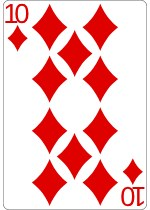
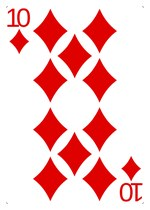
Scores: single clean face-up cards; drop chess pieces and colour cards
Re-crop the card art inside its own outline so it doesn't read as a card
on a card.

Claude-Session: https://claude.ai/code/session_01GhPby2oMrXUQTSRX7t2DQA

diff --git a/scores/index.html b/scores/index.html
@@ -132,13 +132,6 @@ body{background:transparent}
 #table{position:fixed;inset:0;z-index:-1;overflow:hidden;pointer-events:none;background:var(--wood)}
 .pcard{position:absolute;width:75px;height:105px;border-radius:7px;overflow:hidden;background:#fff;box-shadow:0 0 0 .5px rgba(0,0,0,.25),2px 6px 10px rgba(20,8,2,.45)}
 .pcard img{display:block;width:100%;height:100%;object-fit:cover}
-.ccard{position:absolute;width:75px;height:105px;border-radius:8px;background:#fff;padding:4px;box-shadow:0 0 0 .5px rgba(0,0,0,.25),2px 6px 10px rgba(20,8,2,.45);font-family:-apple-system,BlinkMacSystemFont,"Helvetica Neue",Arial,sans-serif;font-weight:900}
-.ccard .f{display:block;position:relative;width:100%;height:100%;border-radius:5px;background:var(--c);overflow:hidden}
-.ccard .f::before{content:"";position:absolute;left:50%;top:50%;width:44px;height:44px;margin:-22px 0 0 -22px;border-radius:50%;background:#fff;box-shadow:inset 0 0 0 3px rgba(0,0,0,.08)}
-.ccard .n{position:absolute;inset:0;display:grid;place-items:center;font-size:30px;color:var(--c);-webkit-text-stroke:1px rgba(0,0,0,.25)}
-.ccard .k{position:absolute;font-size:13px;color:#fff;-webkit-text-stroke:.5px rgba(0,0,0,.35)}
-.ccard .k.t{left:5px;top:3px}.ccard .k.b{right:5px;bottom:3px;transform:rotate(180deg)}
-.piece{position:absolute;display:block;filter:drop-shadow(3px 6px 5px rgba(20,8,2,.5))}
 .pcard.down{background:#fff}
 .pcard.down::before{content:"";position:absolute;inset:5px;border-radius:4px;
   background:radial-gradient(circle at 50% 50%,rgba(255,255,255,.28) 0 7px,transparent 7.5px),
@@ -551,7 +544,7 @@ scatterMarbles();
 function scatterMarbles() {
   const table = document.getElementById('table'), W = innerWidth, H = innerHeight;
   const sheet = document.querySelector('.sheet'), r = sheet ? sheet.getBoundingClientRect() : { left: W, right: 0, top: H, bottom: 0 };
-  table.querySelectorAll('.marble,.pcard,.ccard,.piece').forEach(m => m.remove());
+  table.querySelectorAll('.marble,.pcard').forEach(m => m.remove());
   const placed = [], below = document.querySelector('.below'), b2 = below ? below.getBoundingClientRect() : null;
   const hits = (rc, cx, cy, pad) => rc && cx > rc.left - pad && cx < rc.right + pad && cy > rc.top - pad && cy < rc.bottom + pad;
   const spot = (size, clear) => {
@@ -569,7 +562,7 @@ function scatterMarbles() {
   const OTHER = ['ace_of_spades', 'ace_of_hearts', '10_of_diamonds', '7_of_clubs', '5_of_hearts', '9_of_spades'];
   const pick = arr => arr.splice(Math.floor(Math.random() * arr.length), 1)[0];
   const ups = [pick(COURT), pick(Math.random() < .5 ? COURT : OTHER), pick(OTHER)];
-  const kinds = ['up', 'down', 'up'].slice(0, 2 + Math.floor(Math.random() * 2));
+  const kinds = ['up', 'down', 'up', 'down'].slice(0, 3 + Math.floor(Math.random() * 2));
   kinds.forEach(kind => {
     const p = spot(105, true); if (!p) return;
     const c = document.createElement('span'), rot = (Math.random() * 70 - 35).toFixed(1);
@@ -578,32 +571,10 @@ function scatterMarbles() {
     c.style.cssText = `left:${((p.cx - 37.5) / W * 100).toFixed(2)}%;top:${((p.cy - 52.5) / H * 100).toFixed(2)}%;transform:rotate(${rot}deg)`;
     table.appendChild(c);
   });
-  // a couple of colour-match cards (bright, numbered)
-  const CC = ['#d7262e', '#f2b80f', '#2a9a48', '#1e6fd0'];
-  for (let i = 0, n = 1 + (Math.random() < .6 ? 1 : 0); i < n; i++) {
-    const p = spot(105, true); if (!p) break;
-    const c = document.createElement('span'), num = Math.floor(Math.random() * 10), rot = (Math.random() * 80 - 40).toFixed(1);
-    c.className = 'ccard'; c.style.setProperty('--c', CC[Math.floor(Math.random() * CC.length)]);
-    c.innerHTML = `<span class="f"><span class="k t">${num}</span><span class="n">${num}</span><span class="k b">${num}</span></span>`;
-    c.style.left = ((p.cx - 37.5) / W * 100).toFixed(2) + '%'; c.style.top = ((p.cy - 52.5) / H * 100).toFixed(2) + '%';
-    c.style.transform = `rotate(${rot}deg)`;
-    table.appendChild(c);
-  }
-  // a few chess pieces, standing
-  const PIECES = { king: 76, queen: 70, rook: 54, bishop: 62, knight: 60, pawn: 48 };
-  const names = Object.keys(PIECES);
-  for (let i = 0, n = 2; i < n; i++) {
-    const kind = i === 0 ? 'knight' : names[Math.floor(Math.random() * names.length)], h = PIECES[kind];
-    const p = spot(h, true); if (!p) break;
-    const img = document.createElement('img'), col = Math.random() < .5 ? 'white' : 'black';
-    img.className = 'piece'; img.alt = ''; img.src = `pieces/${col}_${kind}.png`;
-    img.style.height = h + 'px'; img.style.left = ((p.cx - h * .35) / W * 100).toFixed(2) + '%'; img.style.top = ((p.cy - h / 2) / H * 100).toFixed(2) + '%';
-    table.appendChild(img);
-  }
   // marbles on top
   const COLOURS = [['#ff6b6b', '#d62f3a', '#7c0f16'], ['#6ea8ff', '#2f6fe0', '#123c8c'], ['#ffe27a', '#f2c21b', '#a87c00'],
     ['#7fe0a0', '#2fa35a', '#0f5a2c'], ['#ffffff', '#e9e9e9', '#a9a9a9'], ['#6a6a6a', '#262626', '#050505']];
-  const count = 4 + Math.floor(Math.random() * 3);
+  const count = 5 + Math.floor(Math.random() * 3);
   for (let i = 0; i < count; i++) {
     const p = spot(30); if (!p) continue;
     const c = COLOURS[i < COLOURS.length ? i : Math.floor(Math.random() * COLOURS.length)], m = document.createElement('span');

diff --git a/CLAUDE.md b/CLAUDE.md
@@ -51,7 +51,7 @@ The Kildow family's home-screen web app (Ash, Ben, Stella, Evie). This repo also
 ## Scores (`scores/`, for scores.jermins.com)
 - One page, `scores/index.html` (own copy of `pocketbase.umd.js`). Keeping score needs no login: the current game lives on the device in `localStorage['scores-game-v1']` (name, players, rounds, pending row, low/high, target, over, savedId, unsaved).
 - **Past games are shared with the household:** signed in with the Home Board login (☰ → Sign in, or from the clock button), a game that ends (target reached or End game) is saved to `score_games` (migration 1792500000; household set by the main.pb.js hook). Changing a score after the end updates the same row; offline saves retry later. The clock button lists past games; open one for the totals and full sheet, Play again (same name, players and rules), and Delete (editors). No stats, by Ben's choice.
-- Hearts' sheet and Home Board look, accent amber `#c98a3e`, sitting on a solid rich brown table (`--wood:#6b3d22`, same in light and dark; wood-grain images were tried and dropped by Ben) with 2–3 playing cards (75×105px, so a 30px marble is about 1" against a 2.5×3.5" card) tossed at angles, always fully in view (never under the sheet or the hint/buttons): face-up cards are real card art from Byron Knoll's public-domain Vector Playing Cards (via hayeah/playing-cards-assets), rendered to `scores/cards/*.jpg` (12 cards, at least one court card shown each time); face-down cards are a CSS red back. Also 1–2 generic colour-match cards (CSS: red/yellow/green/blue, number in a white circle; not UNO's design or logo, which are Mattel's), 2 standing chess pieces (one always a knight; `scores/pieces/{white,black}_{king,queen,rook,bishop,knight,pawn}.png`, drawn from DejaVu Sans' chess glyphs with ivory/ebony shading; pawn 48px to king 76px) and 4–6 same-size (30px) glass marbles (red, blue, yellow, green, white, black), scattered fresh on each open, mostly where they show (edges and below the sheet). Any number of players (up to 12; sideways scroll past 8) and rounds. Tap a player's + (or any past score) for a number pad: type, ± for negative, Enter. The round is saved once every player has a score. Laptop keys work too (digits, -, Enter, Esc). Menu (☰): game name, players (add, reorder, remove), who wins (highest or lowest), "game ends at" target (empty = end it yourself), Appearance Light / Dark / Auto (`scores-theme`). The leader's total is highlighted; reaching the target shows the winner card.
+- Hearts' sheet and Home Board look, accent amber `#c98a3e`, sitting on a solid rich brown table (`--wood:#6b3d22`, same in light and dark; wood-grain images were tried and dropped by Ben) with 3–4 playing cards (75×105px, so a 30px marble is about 1" against a 2.5×3.5" card) tossed at angles, always fully in view (never under the sheet or the hint/buttons): face-up cards are real card art from Byron Knoll's public-domain Vector Playing Cards (via hayeah/playing-cards-assets), rendered to `scores/cards/*.jpg` (12 cards, at least one court card shown each time); face-down cards are a CSS red back. The card art is cropped just inside its own grey outline with a small white margin, so a face-up card never looks like a card on a card. Chess pieces and generic colour-match cards were tried and removed by Ben and 5–7 same-size (30px) glass marbles (red, blue, yellow, green, white, black), scattered fresh on each open, mostly where they show (edges and below the sheet). Any number of players (up to 12; sideways scroll past 8) and rounds. Tap a player's + (or any past score) for a number pad: type, ± for negative, Enter. The round is saved once every player has a score. Laptop keys work too (digits, -, Enter, Esc). Menu (☰): game name, players (add, reorder, remove), who wins (highest or lowest), "game ends at" target (empty = end it yourself), Appearance Light / Dark / Auto (`scores-theme`). The leader's total is highlighted; reaching the target shows the winner card.
 - Served like recipes: Caddy rewrites to `/scores` on PocketBase. Behind Cloudflare Access "Family apps" with the other sites.
 - Icon: amber scorepad with tally marks.
 
